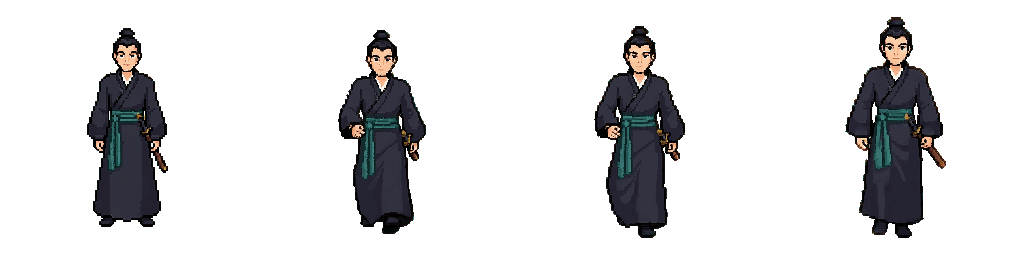
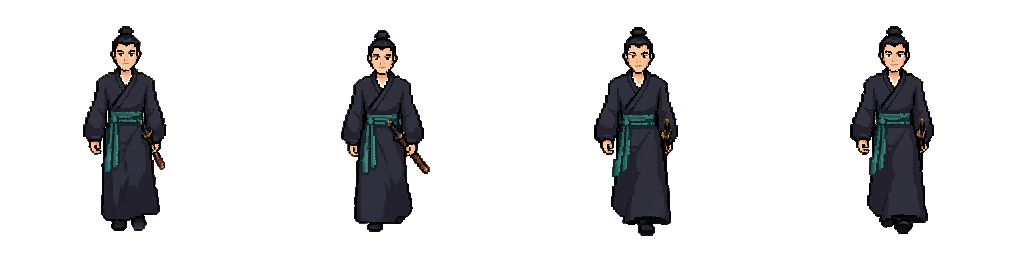
fast save

diff --git a/client/src/main/java/dao/client/DaoGame.java b/client/src/main/java/dao/client/DaoGame.java
@@ -10,6 +10,8 @@ import com.badlogic.gdx.graphics.g2d.Animation;
 import com.badlogic.gdx.graphics.g2d.SpriteBatch;
 import com.badlogic.gdx.graphics.g2d.TextureRegion;
 import com.badlogic.gdx.graphics.glutils.ShapeRenderer;
+import dao.client.render.StatusBar;
+
 
 public final class DaoGame extends ApplicationAdapter {
   private static final float BACKGROUND_RED = 0.04f;

diff --git a/client/src/main/java/dao/client/render/StatusBar.java b/client/src/main/java/dao/client/render/StatusBar.java
@@ -1,4 +1,4 @@
-package dao.client;
+package dao.client.render;
 
 import com.badlogic.gdx.graphics.Color;
 import com.badlogic.gdx.graphics.glutils.ShapeRenderer;

diff --git a/client/src/main/java/dao/client/core/PlayerState.java b/client/src/main/java/dao/client/core/PlayerState.java
@@ -1,0 +1,4 @@
+package dao.client.core;
+
+public enum PlayerState {
+}

diff --git a/client/src/main/java/dao/client/core/Player.java b/client/src/main/java/dao/client/core/Player.java
@@ -1,0 +1,4 @@
+package dao.client.core;
+
+public class Player {
+}
